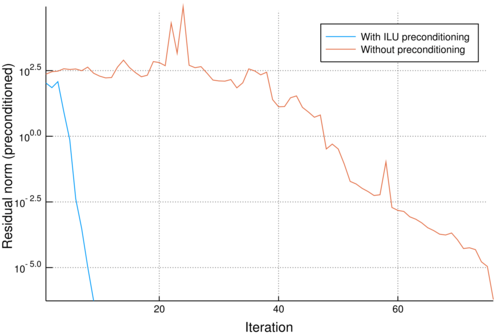
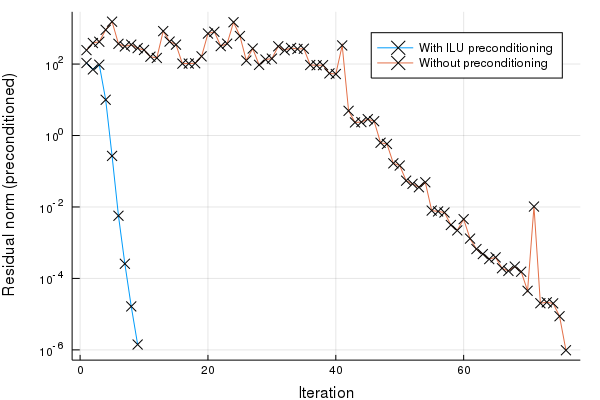
Update to Julia 1.0

diff --git a/readme.md b/readme.md
@@ -2,7 +2,19 @@
 
 # ILU for SparseMatrixCSC
 
-This package implements the left-looking or Crout version of ILU for the `SparseMatrixCSC` type. The basic algorithm loops roughly as follows:
+This package implements the left-looking or Crout version of ILU for 
+the `SparseMatrixCSC` type. It only exports the function `crout_ilu`.
+
+## When to use this package
+
+Whenever you need an incomplete factorization of a sparse and _non-symmetric_ matrix.
+
+The package also provides means to apply the factorization in-place via `ldiv!`. This is 
+useful in the context of preconditioning. See the example below.
+
+## The algorithm
+
+The basic algorithm loops roughly as follows:
 
 ```
 for k = 1 : n
@@ -66,36 +78,36 @@ The advantage of `SparseVectorAccumulator` over `InsertableSparseVector` is that
 Using a drop tolerance of `0.01`, we get a reasonable preconditioner with a bit of fill-in.
 
 ```julia
-> using ILU
+> using ILU, LinearAlgebra, SparseArrays
 > using BenchmarkTools
 > A = sprand(1000, 1000, 5 / 1000) + 10I
 > fact = @btime crout_ilu($A, τ = 0.001)
-  3.853 ms (96 allocations: 1.18 MiB)
-> vecnorm((fact.L + I) * fact.U.' - A)
-0.05610746209883846
+  2.894 ms (90 allocations: 1.18 MiB)
+> norm((fact.L + I) * fact.U' - A)
+0.05736313452207798
 > nnz(fact) / nnz(A)
-3.670773780187284
+3.6793806030969844
 ```
 
 Full LU is obtained when the drop tolerance is `0.0`.
 
 ```julia
 > fact = @btime crout_ilu($A, τ = 0.)
-  629.361 ms (112 allocations: 12.18 MiB)
-> vecnorm((fact.L + I) * fact.U.' - A)
-1.532520861565543e-13
+  209.293 ms (106 allocations: 12.18 MiB)
+> norm((fact.L + I) * fact.U' - A)
+1.5262736852530086e-13
 > nnz(fact) / nnz(A)
-61.66009528503368
+69.34213528932355
 ```
 
 ## Preconditioner
 ILU is typically used as preconditioner for iterative methods. For instance
 
 ```julia
-using IterativeSolvers
+using IterativeSolvers, ILU
+using SparseArrays, LinearAlgebra
 using BenchmarkTools
 using Plots
-using ILU
 
 """
 Benchmarks a non-symmetric 64 × 64 × 64 problem
@@ -104,8 +116,12 @@ with and without the ILU preconditioner.
 function mytest(n = 64)
     N = n^3
 
-    A = spdiagm((fill(-1.0, n - 1), fill(3.0, n), fill(-2.0, n - 1)), (-1, 0, 1))
-    Id = speye(n)
+    A = spdiagm(
+      -1 => fill(-1.0, n - 1), 
+       0 => fill(3.0, n), 
+       1 => fill(-2.0, n - 1)
+    )
+    Id = sparse(1.0I, n, n)
     A = kron(A, Id) + kron(Id, A)
     A = kron(A, Id) + kron(Id, A)
     x = ones(N)
@@ -115,12 +131,12 @@ function mytest(n = 64)
     @show nnz(LU) / nnz(A)
 
     # Bench
-    prec = @benchmark crout_ilu($A, τ = 0.1)
-    @show prec
-    with = @benchmark bicgstabl($A, $b, 2, Pl = $LU, max_mv_products = 2000)
-    @show with
-    without = @benchmark bicgstabl($A, $b, 2, max_mv_products = 2000)
-    @show without
+    #prec = @benchmark crout_ilu($A, τ = 0.1)
+    #@show prec
+    #with = @benchmark bicgstabl($A, $b, 2, Pl = $LU, max_mv_products = 2000)
+    #@show with
+    #without = @benchmark bicgstabl($A, $b, 2, max_mv_products = 2000)
+    #@show without
 
     # Result
     x_with, hist_with = bicgstabl(A, b, 2, Pl = LU, max_mv_products = 2000, log = true)
@@ -129,8 +145,8 @@ function mytest(n = 64)
     @show norm(b - A * x_with) / norm(b) 
     @show norm(b - A * x_without) / norm(b)
 
-    plot(hist_with[:resnorm], yscale = :log10, label = "With ILU preconditioning", xlabel = "Iteration", ylabel = "Residual norm (preconditioned)")
-    plot!(hist_without[:resnorm], label = "Without preconditioning")
+    plot(hist_with[:resnorm], yscale = :log10, label = "With ILU preconditioning", xlabel = "Iteration", ylabel = "Residual norm (preconditioned)", mark = :x)
+    plot!(hist_without[:resnorm], label = "Without preconditioning", mark = :x)
 end
 
 mytest()
@@ -140,11 +156,15 @@ Outputs
 
 ```julia
 nnz(LU) / nnz(A) = 2.1180353639352374
-prec = Trial(611.019 ms)
-with = Trial(692.187 ms)
-without = Trial(2.051 s)
-norm(b - A * x_with) / norm(b) = 2.133397068536056e-9
-norm(b - A * x_without) / norm(b) = 1.6967043606691152e-9
+prec = Trial(443.781 ms)
+with = Trial(766.141 ms)
+without = Trial(2.595 s)
+norm(b - A * x_with) / norm(b) = 2.619046427010899e-9
+norm(b - A * x_without) / norm(b) = 1.2501603557459283e-8
 ```
 
 ![Residual norm with preconditioner](https://haampie.github.io/ILU.jl/residual3.png)
+
+## Todo
+The method does not implement scaling techniques, so the `τ` parameter is really an
+absolute dropping tolerance parameter.
